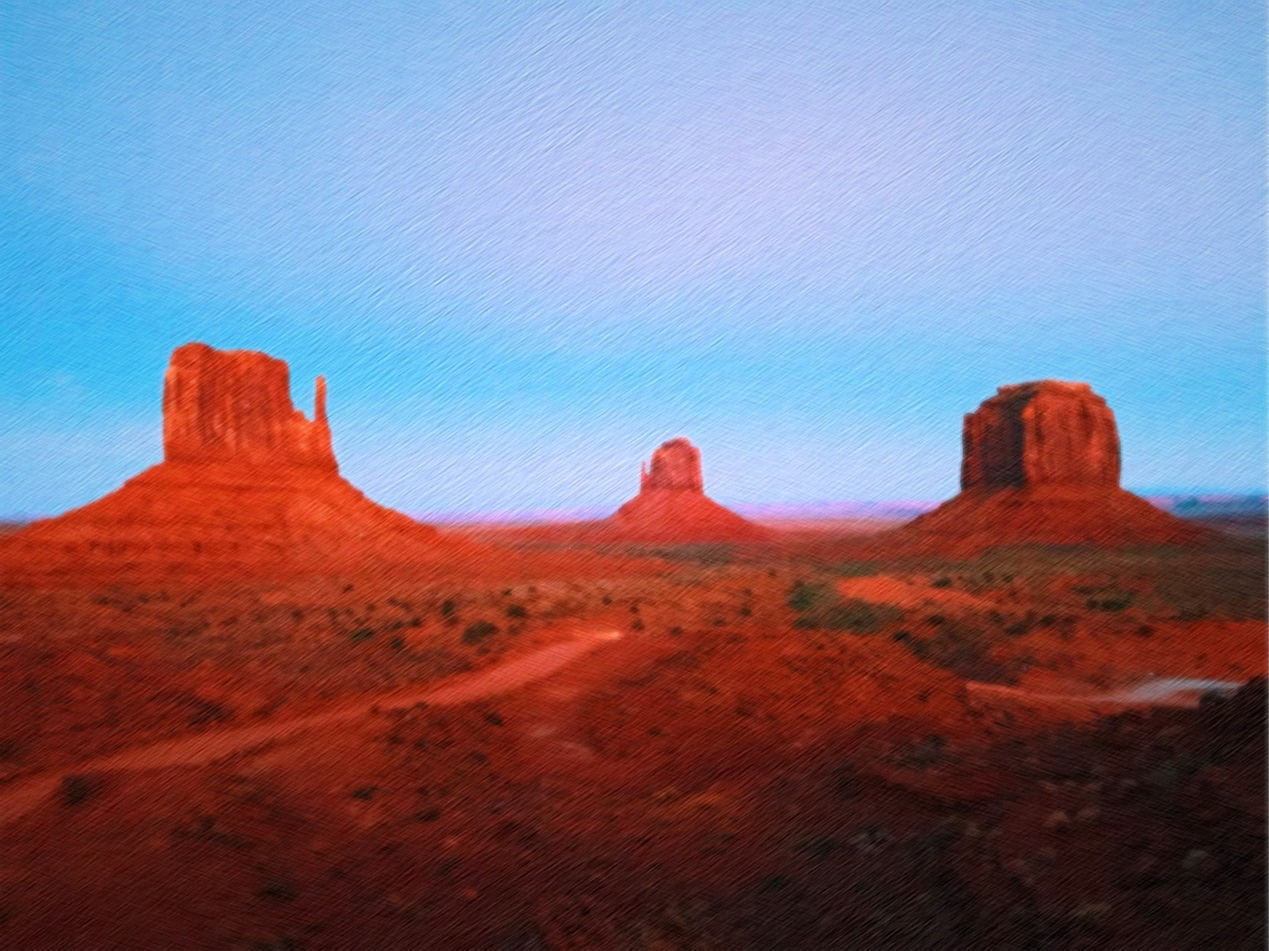
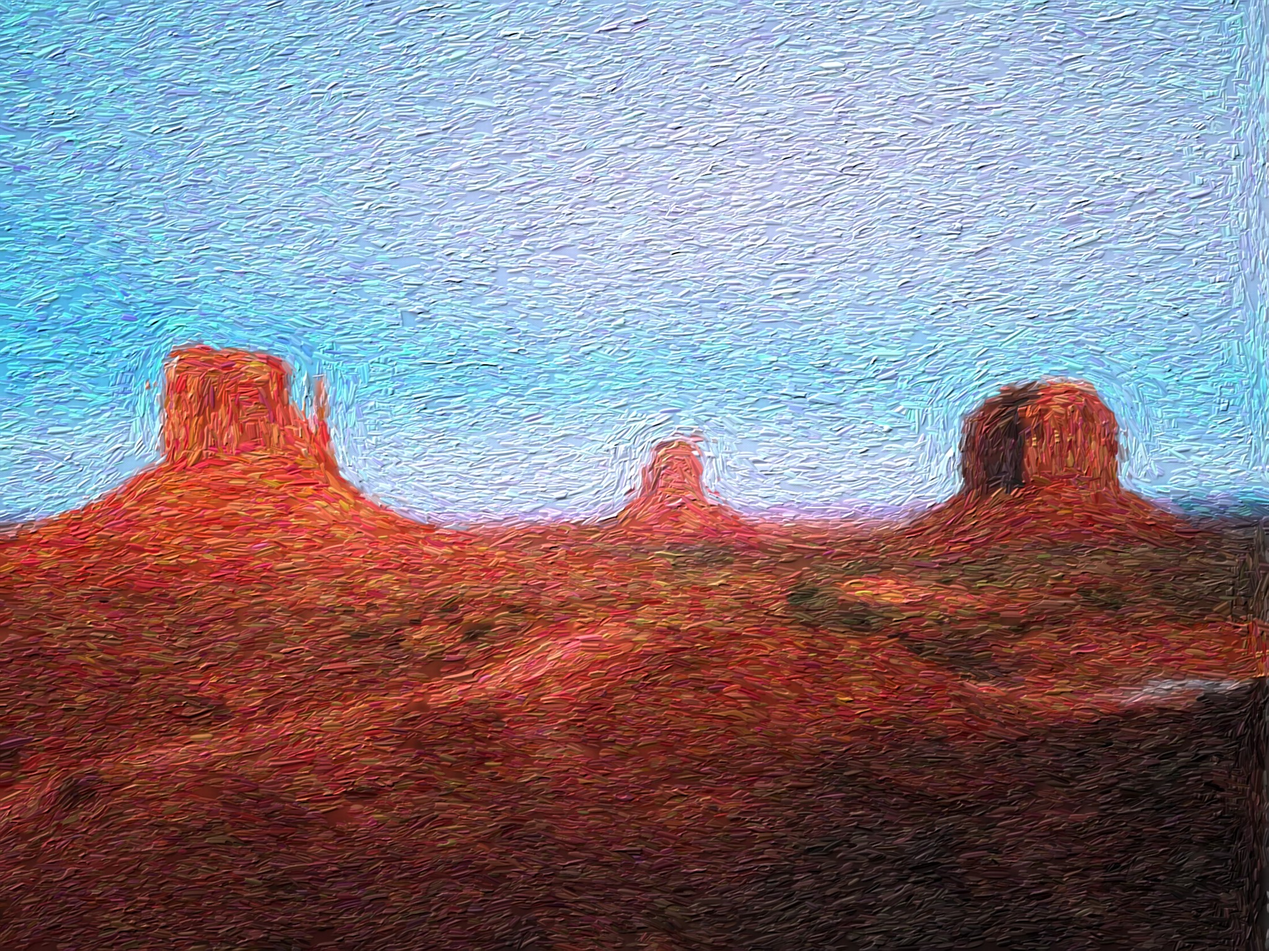
Hero: impressionist impasto painting (layered strokes, bristles, relief lighting)

diff --git a/scripts/make-hero.py b/scripts/make-hero.py
@@ -1,4 +1,4 @@
-"""Generate public/hero/original.jpg (upscaled+sharpened) and painted.jpg (oil painting).
+"""Generate public/hero/original.jpg (upscaled+sharpened) and painted.jpg (impressionist impasto painting).
 Usage: python scripts/make-hero.py   (needs opencv-contrib-python-headless, numpy)"""
 import cv2, numpy as np
 src = cv2.imread('public/hero/source.jpg')
@@ -9,37 +9,106 @@ blur = cv2.GaussianBlur(up, (0, 0), 1.6)
 orig = cv2.addWeighted(up, 1.5, blur, -0.5, 0)
 cv2.imwrite('public/hero/original.jpg', orig, [cv2.IMWRITE_JPEG_QUALITY, 88])
 
-base = cv2.bilateralFilter(orig, 7, 30, 7)
-oil = cv2.xphoto.oilPainting(base, 5, 2, cv2.COLOR_BGR2Lab)
-oil = cv2.xphoto.oilPainting(oil, 3, 2, cv2.COLOR_BGR2Lab)
-oil = cv2.addWeighted(oil, 0.82, orig, 0.18, 0)  # keep a little structure
-hsv = cv2.cvtColor(oil, cv2.COLOR_BGR2HSV).astype(np.float32)
-hsv[..., 1] = np.clip(hsv[..., 1] * 1.05, 0, 255)
-hsv[..., 2] = np.clip(hsv[..., 2] * 1.10 + 4, 0, 255)
-oil = cv2.cvtColor(hsv.astype(np.uint8), cv2.COLOR_HSV2BGR).astype(np.float32)
-# brush-stroke relief: directional noise lighting
-rng = np.random.default_rng(7)
-n = rng.standard_normal((h, W)).astype(np.float32)
-k = np.zeros((25, 25), np.float32); k[12, :] = 1; k /= k.sum()
-M = cv2.getRotationMatrix2D((12, 12), 35, 1); k = cv2.warpAffine(k, M, (25, 25)); k /= k.sum()
-def dirk(a):
-    kk = np.zeros((25, 25), np.float32); kk[12, :] = 1
-    kk = cv2.warpAffine(kk, cv2.getRotationMatrix2D((12, 12), a, 1), (25, 25)); return kk / kk.sum()
-f1 = cv2.filter2D(n, -1, dirk(35)); f2 = cv2.filter2D(n, -1, dirk(-20))
-lo = cv2.GaussianBlur(rng.standard_normal((h, W)).astype(np.float32), (0, 0), 90)
-lo = (lo - lo.min()) / (lo.max() - lo.min())
-streak = f1 * lo + f2 * (1 - lo)
-streak = cv2.GaussianBlur(streak, (0, 0), 1.0)
-streak /= np.abs(streak).max()
-# canvas weave
-yy, xx = np.mgrid[0:h, 0:W].astype(np.float32)
-weave = (np.sin(xx * 1.9) * np.sin(yy * 1.9)) * 0.5 + cv2.GaussianBlur(rng.standard_normal((h, W)).astype(np.float32), (0, 0), 1.2) * 0.5
-tex = streak * 7 + weave * 3
-# luminance-weighted relief via gradient shading
-gx = cv2.Sobel(streak, cv2.CV_32F, 1, 0, ksize=3); gy = cv2.Sobel(streak, cv2.CV_32F, 0, 1, ksize=3)
-shade = (gx * 0.7 + gy * 0.7) * 11
-out = np.clip(oil + (tex + shade)[..., None], 0, 255).astype(np.uint8)
-# soft vignette
-v = 1 - 0.12 * (((xx - W/2) / (W/2)) ** 2 + ((yy - h/2) / (h/2)) ** 2) / 2
+# --- Impressionist impasto painting: layered coarse-to-fine strokes + height-map relief lighting ---
+rng = np.random.default_rng(11)
+H, Wd_ = h, W
+srcf = orig.astype(np.float32)
+# soft reference: loss of fine detail
+ref = cv2.GaussianBlur(srcf, (0, 0), 2.0)
+gray = cv2.cvtColor(ref.astype(np.uint8), cv2.COLOR_BGR2GRAY).astype(np.float32)
+
+def flow_field(sigma):
+    g = cv2.GaussianBlur(gray, (0, 0), 1.5)
+    gx = cv2.Sobel(g, cv2.CV_32F, 1, 0, ksize=3); gy = cv2.Sobel(g, cv2.CV_32F, 0, 1, ksize=3)
+    jxx = cv2.GaussianBlur(gx * gx, (0, 0), sigma); jyy = cv2.GaussianBlur(gy * gy, (0, 0), sigma)
+    jxy = cv2.GaussianBlur(gx * gy, (0, 0), sigma)
+    th = 0.5 * np.arctan2(2 * jxy, jxx - jyy) + np.pi / 2   # along edges
+    coh = np.sqrt((jxx - jyy) ** 2 + 4 * jxy ** 2) / (jxx + jyy + 1e-3)
+    coh = np.clip(coh * 1.5, 0, 1)
+    # fallback in flat areas: gently horizontal, wavy (sky)
+    fb = np.full_like(th, -0.12)
+    x = np.cos(th) * coh + np.cos(fb) * (1 - coh); y = np.sin(th) * coh + np.sin(fb) * (1 - coh)
+    # consistent sign (orientation is mod pi): use doubled-angle blend
+    c2 = np.cos(2 * th) * coh + np.cos(2 * fb) * (1 - coh); s2 = np.sin(2 * th) * coh + np.sin(2 * fb) * (1 - coh)
+    return 0.5 * np.arctan2(s2, c2)
+
+canvas = cv2.GaussianBlur(srcf, (0, 0), 6).copy()   # underpainting
+height = np.zeros((H, Wd_), np.float32)
+layers = [(120, 1.0, 5), (76, 1.4, 4), (50, 1.7, 3.2), (32, 1.4, 2.4), (20, 0.7, 1.8)]  # (stroke length, coverage, flow sigma scale)
+for li, (L, cover, fs) in enumerate(layers):
+    th_f = flow_field(max(3, L * 0.6))
+    if li < 4:
+        refl = cv2.GaussianBlur(srcf, (0, 0), 1.0 + L * 0.12)
+    else:
+        refl = ref
+    wid = max(4.0, L * 0.30)
+    n = int(cover * H * Wd_ / (L * wid * 1.6))
+    xs = rng.integers(0, Wd_, n); ys = rng.integers(0, H, n)
+    for i in range(n):
+        cx, cy = int(xs[i]), int(ys[i])
+        a = L * rng.uniform(0.7, 1.3) / 2; b = wid * rng.uniform(0.7, 1.3) / 2
+        ang = th_f[cy, cx] + rng.normal(0, 0.18)
+        ca, sa = np.cos(ang), np.sin(ang)
+        r = int(a + b + 2)
+        x0, x1 = max(0, cx - r), min(Wd_, cx + r + 1); y0, y1 = max(0, cy - r), min(H, cy + r + 1)
+        gy_, gx_ = np.mgrid[y0:y1, x0:x1].astype(np.float32)
+        dx, dy = gx_ - cx, gy_ - cy
+        u = dx * ca + dy * sa; v = -dx * sa + dy * ca
+        # slightly curved stroke
+        v = v - 0.05 * u * u / max(a, 1) * rng.choice([-1, 1])
+        rr = (u / a) ** 2 + (v / b) ** 2
+        m = rr < 1
+        if not m.any(): continue
+        alpha = np.clip((1 - rr) * 3.5, 0, 1)
+        # bristle streaks: 1D noise across width, stretched along length
+        nb = int(2 * b * 0.5) + 6
+        bn = cv2.GaussianBlur(rng.standard_normal(nb).astype(np.float32)[None], (0, 0), 0.8)[0]
+        bn = bn / (np.abs(bn).max() + 1e-6)
+        idx = np.clip(((v / b + 1) * 0.5 * (nb - 1)), 0, nb - 1)
+        bris = np.interp(idx, np.arange(nb), bn)
+        bris = bris * (0.6 + 0.4 * np.cos(u / a * 1.2))   # bristles fade at stroke ends
+        ridge = np.sqrt(np.clip(1 - rr, 0, 1))            # thick-middle profile
+        hs = (0.5 * ridge + 0.5 * bris) * (L ** 0.6)
+        # colour: sampled from source, jitter in hue/lightness, bristle lightness streaks
+        col = refl[cy, cx].copy()
+        hsv = cv2.cvtColor(col.reshape(1, 1, 3).astype(np.uint8), cv2.COLOR_BGR2HSV).astype(np.float32)[0, 0]
+        hsv[0] = (hsv[0] + rng.normal(0, 4.5)) % 180
+        hsv[1] = np.clip(hsv[1] * rng.uniform(0.82, 1.05) + rng.normal(0, 6), 0, 255)
+        hsv[2] = np.clip(hsv[2] * 1.04 + rng.normal(0, 10) + 6, 0, 255)
+        c = cv2.cvtColor(hsv.reshape(1, 1, 3).astype(np.uint8), cv2.COLOR_HSV2BGR).astype(np.float32)[0, 0]
+        patch = np.empty((y1 - y0, x1 - x0, 3), np.float32); patch[:] = c
+        patch += (bris * 12)[..., None]
+        al = alpha[..., None] * 0.97
+        canvas[y0:y1, x0:x1] = canvas[y0:y1, x0:x1] * (1 - al) + patch * al
+        hp = height[y0:y1, x0:x1]
+        height[y0:y1, x0:x1] = hp * (1 - alpha) + hs * alpha
+    print('layer', li, n, flush=True)
+
+canvas = np.clip(canvas, 0, 255)
+# slight softening of colour (no sharp edges), keep height detail
+canvas = cv2.GaussianBlur(canvas, (0, 0), 0.8)
+# gentle luminous/desaturated palette, preserve warmth
+hsv = cv2.cvtColor(canvas.astype(np.uint8), cv2.COLOR_BGR2HSV).astype(np.float32)
+hsv[..., 1] = np.clip(hsv[..., 1] * 0.95, 0, 255)
+hsv[..., 2] = np.clip(hsv[..., 2] * 1.05 + 3, 0, 255)
+canvas = cv2.cvtColor(hsv.astype(np.uint8), cv2.COLOR_HSV2BGR).astype(np.float32)
+
+# canvas weave (also affects height)
+yy, xx = np.mgrid[0:H, 0:Wd_].astype(np.float32)
+weave = (np.sin(xx * 1.7) * np.sin(yy * 1.7)) * 0.6 + 0.4 * (np.sin(xx * 0.85 + 1.3 * np.sin(yy * 0.05)) + np.sin(yy * 0.85)) * 0.5
+weave += cv2.GaussianBlur(rng.standard_normal((H, Wd_)).astype(np.float32), (0, 0), 1.0) * 0.12
+hm = cv2.GaussianBlur(height, (0, 0), 0.7) + weave * 0.22
+# relief lighting from top-left
+gx = cv2.Sobel(hm, cv2.CV_32F, 1, 0, ksize=3) / 16; gy = cv2.Sobel(hm, cv2.CV_32F, 0, 1, ksize=3) / 16
+lx, ly = -0.62, -0.78
+diff = -(gx * lx + gy * ly)
+lum = canvas.mean(axis=2, keepdims=True) / 255
+shade = diff * 26
+nrm = 1 / np.sqrt(1 + gx * gx + gy * gy)
+spec = np.clip((nrm * 0.6 + (-(gx * lx + gy * ly)) * nrm * 0.9) , 0, 1) ** 8 * 40   # glossy ridge highlights
+out = canvas * (1 + shade[..., None] / 255 * 3.2) + shade[..., None] * 0.6 + spec[..., None] * (0.4 + 0.6 * lum)
+# ambient occlusion in valleys
+out *= (1 + np.clip(hm - cv2.GaussianBlur(hm, (0, 0), 6), -3, 0) * 0.04)[..., None]
+v = 1 - 0.12 * (((xx - Wd_/2) / (Wd_/2)) ** 2 + ((yy - H/2) / (H/2)) ** 2) / 2
 out = np.clip(out * v[..., None], 0, 255).astype(np.uint8)
-cv2.imwrite('public/hero/painted.jpg', out, [cv2.IMWRITE_JPEG_QUALITY, 88])
+cv2.imwrite('public/hero/painted.jpg', out, [cv2.IMWRITE_JPEG_QUALITY, 90])
